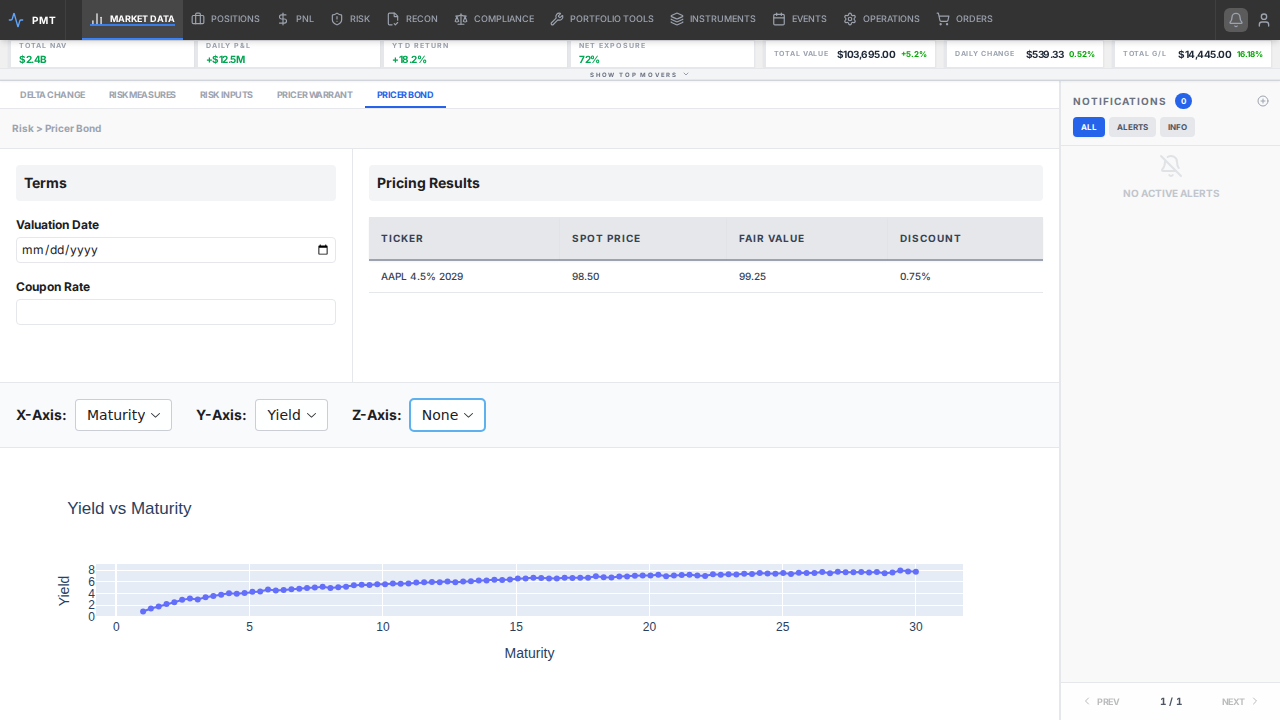
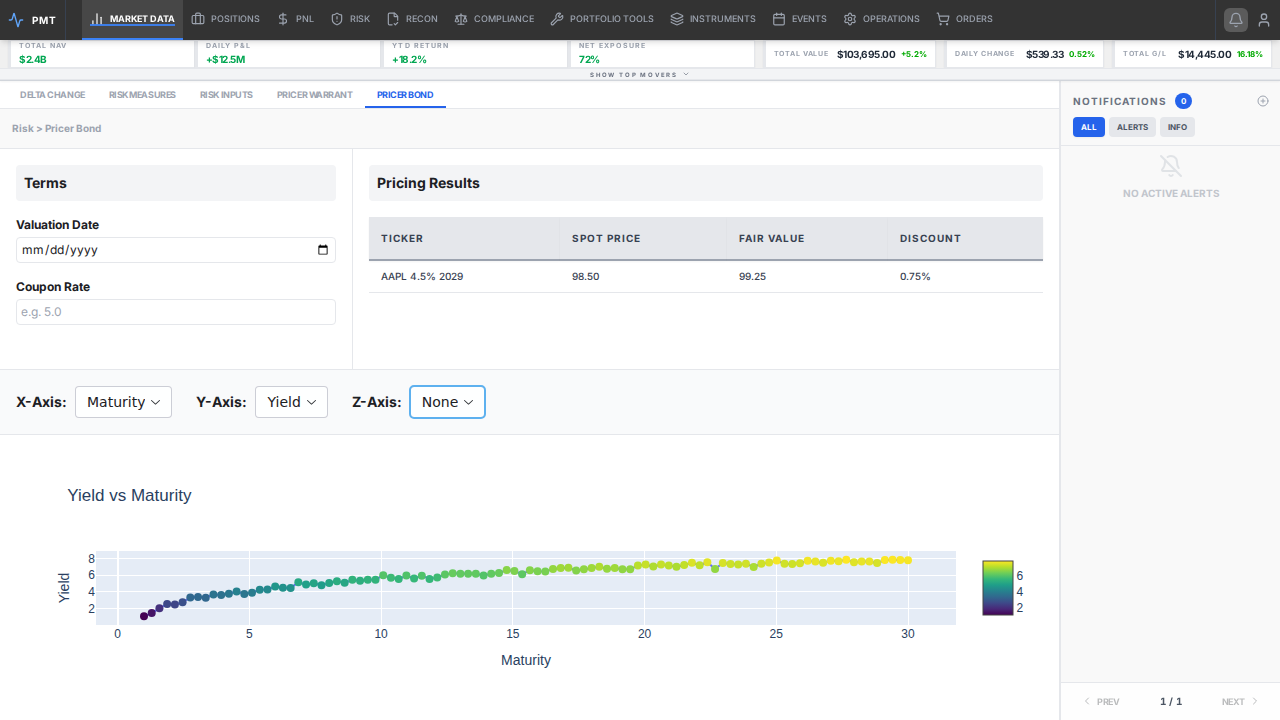
Implement 3D Surface plots for Bond and Warrant pricers
- Updated `PricerBondState` and `PricerWarrantState` to use `go.Surface` for 3D visualizations.
- Updated `pricer_bond_view` and `pricer_warrant_view` UI.
- Verified 3D Surface plots with screenshots.

diff --git a/app/states/risk/pricer_bond_state.py b/app/states/risk/pricer_bond_state.py
@@ -13,29 +13,27 @@ class PricerBondState(rx.State):
         return self.generate_chart()
 
     def generate_chart(self) -> go.Figure:
-        # Generate mock financial data
         np.random.seed(42)
-        n_points = 100
-
-        # Create base data
-        maturity = np.linspace(1, 30, n_points)
-        yield_val = np.log(maturity) * 2 + 1 + np.random.normal(0, 0.2, n_points)
-        price = 100 * np.exp(-yield_val/100 * maturity) + np.random.normal(0, 1, n_points)
-        coupon = np.random.choice([2.0, 3.0, 4.0, 5.0], n_points)
-        duration = maturity * (1 - np.exp(-0.05 * maturity)) / 0.05 # Rough duration approx
-        convexity = duration ** 2 / 2
-
-        df = pd.DataFrame({
-            "Maturity": maturity,
-            "Yield": yield_val,
-            "Price": price,
-            "Coupon": coupon,
-            "Duration": duration,
-            "Convexity": convexity
-        })
 
         if self.z_axis == "None":
             # Scenario A (2D): Standard 2D Line/Scatter chart
+            n_points = 100
+            maturity = np.linspace(1, 30, n_points)
+            yield_val = np.log(maturity) * 2 + 1 + np.random.normal(0, 0.2, n_points)
+            price = 100 * np.exp(-yield_val/100 * maturity) + np.random.normal(0, 1, n_points)
+            coupon = np.random.choice([2.0, 3.0, 4.0, 5.0], n_points)
+            duration = maturity * (1 - np.exp(-0.05 * maturity)) / 0.05
+            convexity = duration ** 2 / 2
+
+            df = pd.DataFrame({
+                "Maturity": maturity,
+                "Yield": yield_val,
+                "Price": price,
+                "Coupon": coupon,
+                "Duration": duration,
+                "Convexity": convexity
+            })
+
             # Sort by X axis for cleaner lines if it's a line chart
             df_sorted = df.sort_values(by=self.x_axis)
 
@@ -54,22 +52,40 @@ class PricerBondState(rx.State):
             )
             return fig
         else:
-            # Scenario B (3D): Interactive 3D Scatter Plot
-            fig = go.Figure(data=[go.Scatter3d(
-                x=df[self.x_axis],
-                y=df[self.y_axis],
-                z=df[self.z_axis],
-                mode='markers',
-                marker=dict(
-                    size=5,
-                    color=df[self.z_axis],
-                    colorscale='Viridis',
-                    opacity=0.8,
-                    showscale=True
-                )
-            )])
+            # Scenario B (3D): Surface Plot
+            # We need a grid for Surface plots
+
+            # Define ranges for X and Y axes based on selection
+            if self.x_axis == "Maturity":
+                x = np.linspace(1, 30, 50)
+            elif self.x_axis == "Duration":
+                x = np.linspace(0, 20, 50)
+            else:
+                x = np.linspace(0, 100, 50) # Fallback
+
+            if self.y_axis == "Yield":
+                y = np.linspace(0, 10, 50)
+            elif self.y_axis == "Price":
+                y = np.linspace(80, 120, 50)
+            else:
+                y = np.linspace(0, 100, 50) # Fallback
+
+            X, Y = np.meshgrid(x, y)
+
+            # Calculate Z based on X and Y to create a surface
+            # This is a mock function to create a visually interesting surface
+            if self.z_axis == "Coupon":
+                # Mock relationship: Coupon influences Price/Yield
+                Z = np.sin(X/5) * np.cos(Y/2) * 2 + 3
+            elif self.z_axis == "Convexity":
+                 Z = (X**2 / 100) + (Y / 10)
+            else:
+                Z = np.sin(np.sqrt(X**2 + Y**2))
+
+            fig = go.Figure(data=[go.Surface(z=Z, x=X, y=Y, colorscale='Viridis')])
+
             fig.update_layout(
-                title=f"{self.y_axis} vs {self.x_axis} vs {self.z_axis}",
+                title=f"{self.z_axis} Surface ({self.y_axis} vs {self.x_axis})",
                 scene=dict(
                     xaxis_title=self.x_axis,
                     yaxis_title=self.y_axis,

diff --git a/app/states/risk/pricer_warrant_state.py b/app/states/risk/pricer_warrant_state.py
@@ -32,21 +32,38 @@ class PricerWarrantState(rx.State):
             return fig
         else:
             # 3D Chart: Volatility Surface
-            x = np.linspace(80, 120, 30) # Spot / Strike
-            y = np.linspace(0.1, 2, 30)  # Time to maturity
+            # Using go.Surface requires a grid
+
+            # X: Spot Price / Strike
+            x = np.linspace(80, 120, 50)
+            # Y: Time to Maturity (or whatever is selected as Y, but for surface we usually map 2 inputs to Z)
+            # Here we map X and Y inputs to grid axes
+
+            if self.y_axis == "Value":
+                 y = np.linspace(0.1, 2, 50) # Time to maturity range
+            else:
+                 y = np.linspace(0, 1, 50)
+
             X, Y = np.meshgrid(x, y)
 
-            # Black-Scholes-like surface shape mock
-            Z = np.maximum(X - 100, 0) * np.exp(-0.05 * Y) + 5 * np.exp(-0.5 * ((X-100)/10)**2) * np.sqrt(Y)
+            # Z Calculation (e.g., Implied Vol or Option Value)
+            if self.z_axis == "Volatility":
+                # Volatility surface smile
+                Z = 0.2 + 0.1 * ((X - 100)/100)**2 + 0.05 * np.exp(-Y)
+            else:
+                # Black-Scholes-like surface shape mock
+                Z = np.maximum(X - 100, 0) * np.exp(-0.05 * Y) + 5 * np.exp(-0.5 * ((X-100)/10)**2) * np.sqrt(Y)
 
-            fig = go.Figure(data=[go.Surface(z=Z, x=X, y=Y)])
+            fig = go.Figure(data=[go.Surface(z=Z, x=X, y=Y, colorscale='Plasma')])
             fig.update_layout(
-                title=f"{self.y_axis} vs {self.x_axis} vs {self.z_axis}",
+                title=f"{self.z_axis} Surface ({self.x_axis} vs {self.y_axis})",
                 scene=dict(
                     xaxis_title=self.x_axis,
-                    yaxis_title=self.y_axis,
+                    yaxis_title=self.y_axis if self.y_axis != "Value" else "Time", # Label tweak for context
                     zaxis_title=self.z_axis
                 ),
-                template="plotly_white"
+                template="plotly_white",
+                 height=600,
+                margin=dict(l=0, r=0, b=0, t=30)
             )
             return fig
